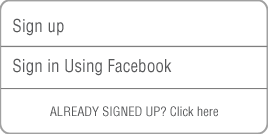
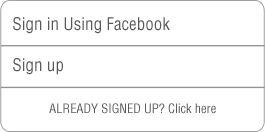
Updated some of the graphics based on feedback received for this build. (S01 Welcome, S01.1 Login, S02.1 Registration)

diff --git a/Soclivity/WelcomeScreenViewController.m b/Soclivity/WelcomeScreenViewController.m
@@ -101,27 +101,25 @@
     [self.view addSubview:socLogoImageView];
     [socLogoImageView release];
     UIImageView *socSignupImageView=[[UIImageView alloc]initWithImage:[UIImage imageNamed:@"sign-up.png"]];
-    socSignupImageView.frame=CGRectMake(26, 287, 268, 134);
+    socSignupImageView.frame=CGRectMake(26, 287, 265, 132);
     [self.view addSubview:socSignupImageView];
     [socSignupImageView release];
     
     
-    UIButton *signUpButton=[UIButton buttonWithType:UIButtonTypeCustom];
-    signUpButton.frame=CGRectMake(26,287,268,44.6);
-    [signUpButton addTarget:self action:@selector(SignUpButtonClicked) forControlEvents:UIControlEventTouchUpInside];
-    [self.view addSubview:signUpButton];
-    
     UIButton *signInUsingFacebbokButton=[UIButton buttonWithType:UIButtonTypeCustom];
-    signInUsingFacebbokButton.frame=CGRectMake(26,331.6,268,44.6);
+    signInUsingFacebbokButton.frame=CGRectMake(26,287,265,44.6);
     [signInUsingFacebbokButton addTarget:self action:@selector(SignInUsingFacebookButtonClicked) forControlEvents:UIControlEventTouchUpInside];
     [self.view addSubview:signInUsingFacebbokButton];
     
+    UIButton *signUpButton=[UIButton buttonWithType:UIButtonTypeCustom];
+    signUpButton.frame=CGRectMake(26,331,265,44.6);
+    [signUpButton addTarget:self action:@selector(SignUpButtonClicked) forControlEvents:UIControlEventTouchUpInside];
+    [self.view addSubview:signUpButton];
+    
     UIButton *alreadySignedUpButton=[UIButton buttonWithType:UIButtonTypeCustom];
-    alreadySignedUpButton.frame=CGRectMake(26,376.2,268,44.6);
+    alreadySignedUpButton.frame=CGRectMake(26,376.2,265,44.6);
     [alreadySignedUpButton addTarget:self action:@selector(AlreadySignedUpButtonClicked) forControlEvents:UIControlEventTouchUpInside];
     [self.view addSubview:alreadySignedUpButton];
-
-
 
     
     [NSTimer scheduledTimerWithTimeInterval:1.5 target:self selector:@selector(performTransition) userInfo:nil repeats:YES]; 
